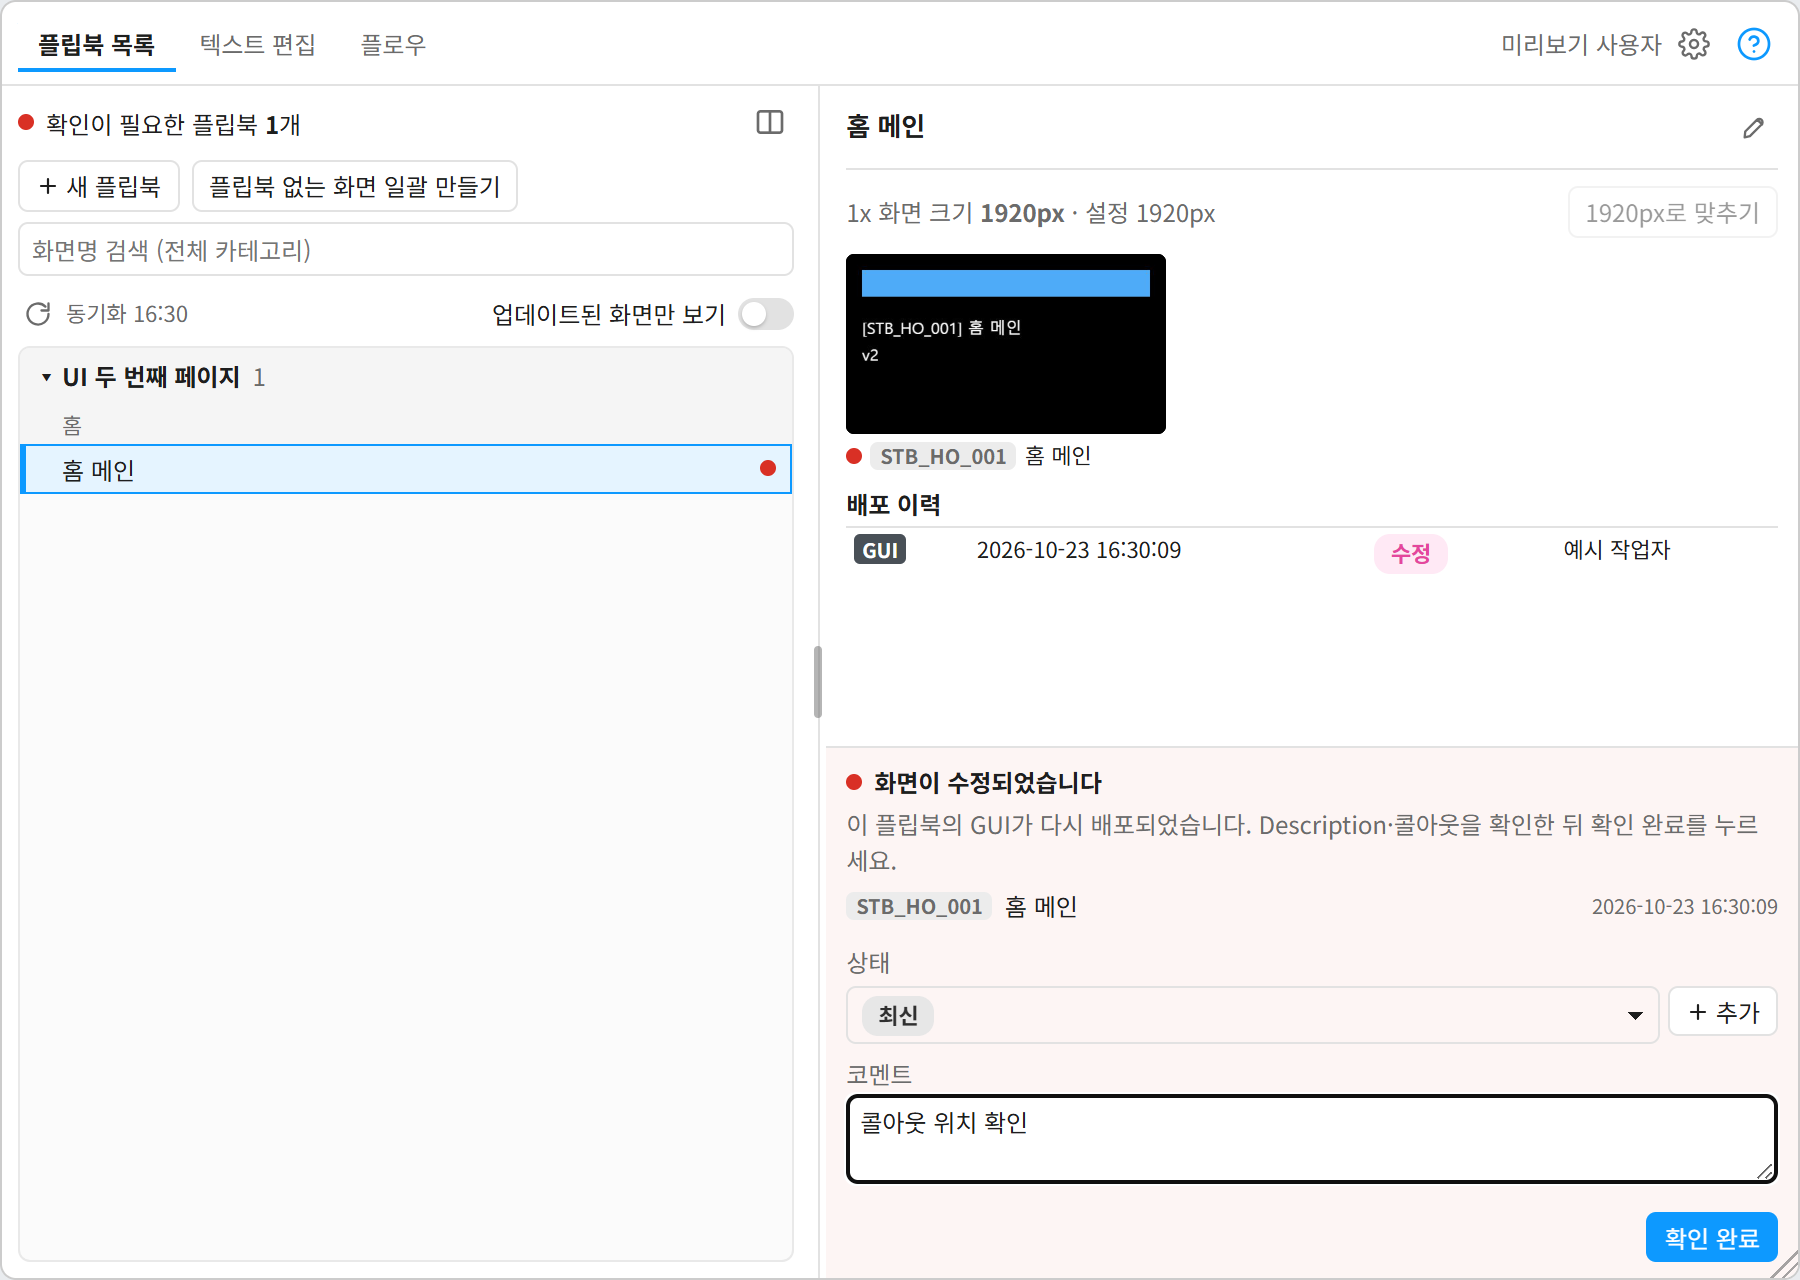
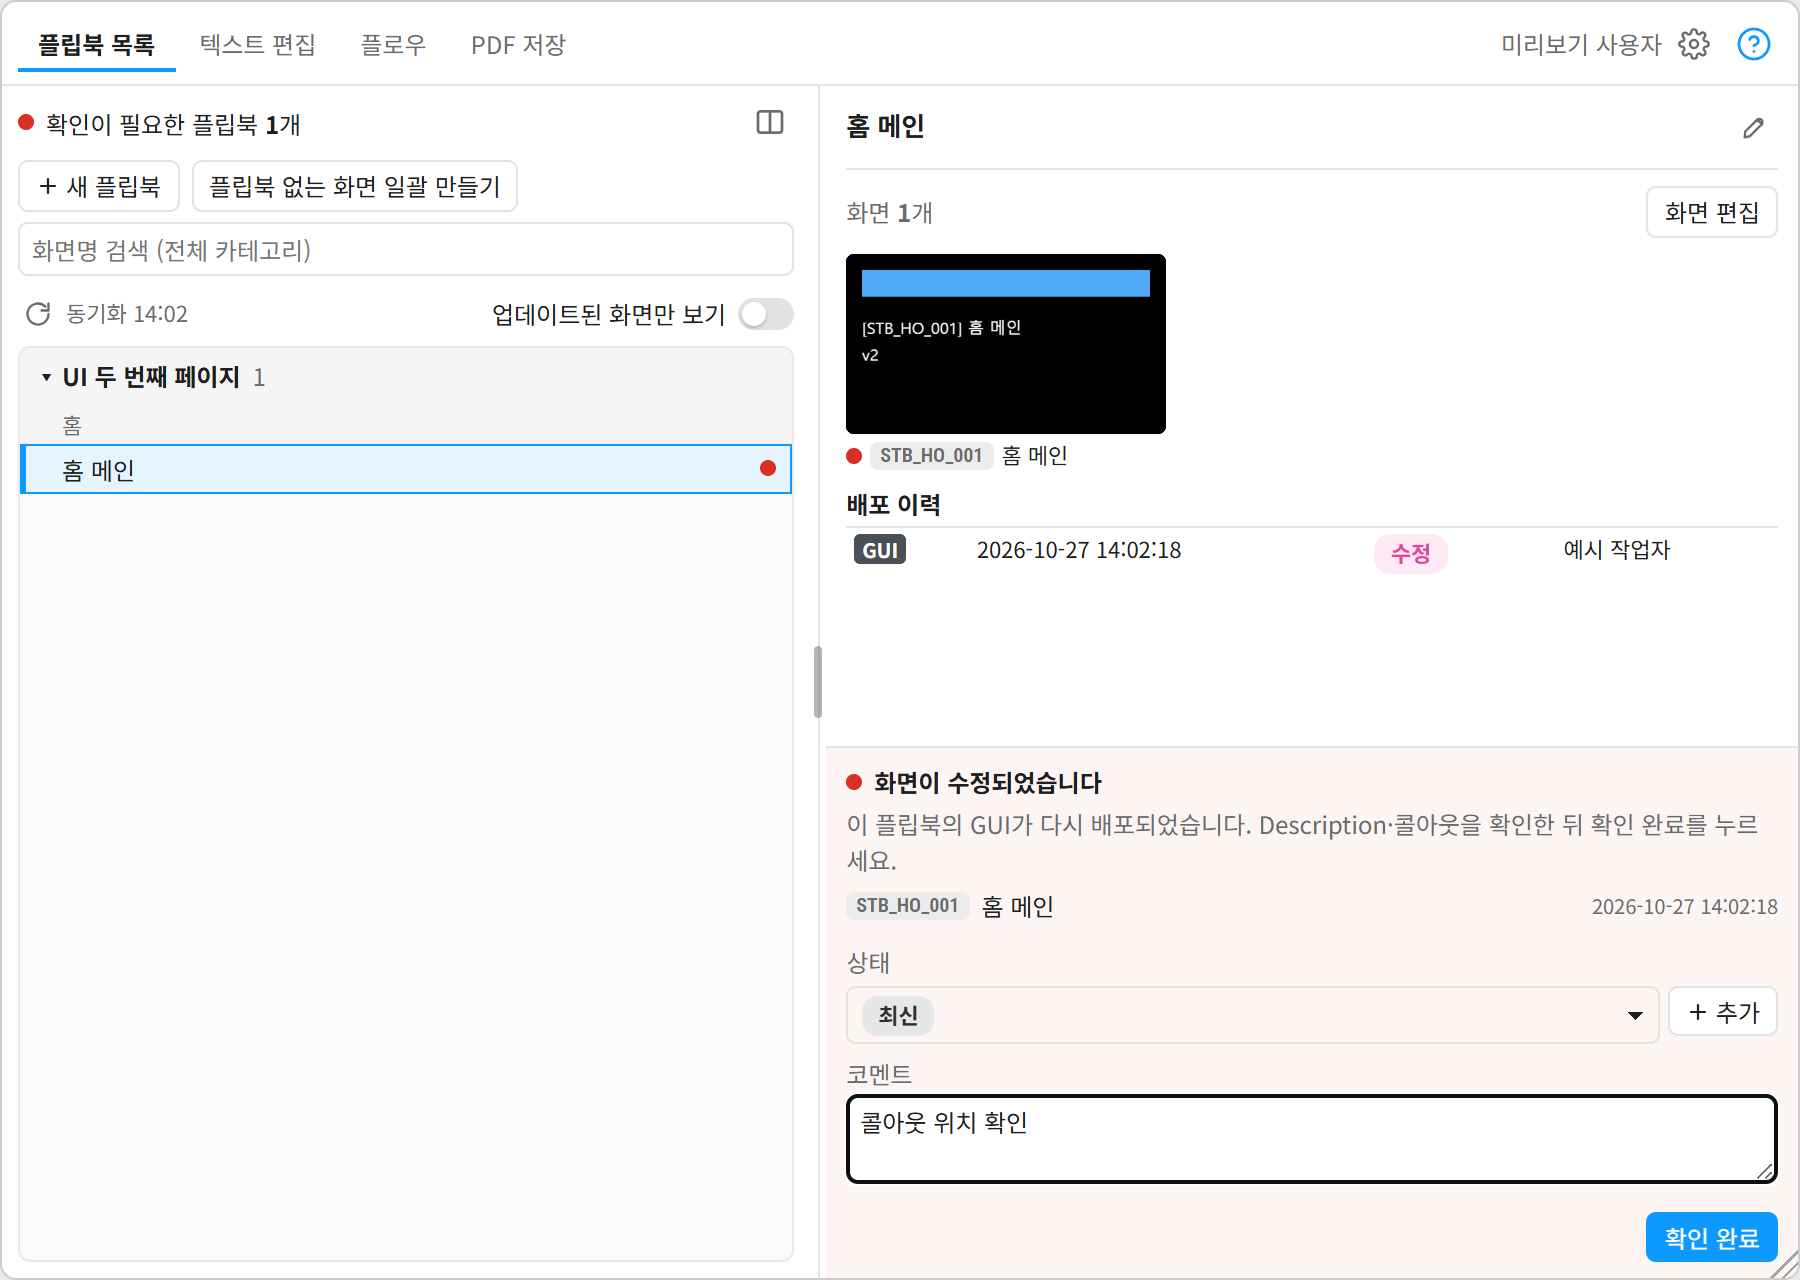
Show Screen IDs in Roboto Condensed in the plugin window
Screen ID tags took the panel font (Inter, else Noto Sans KR or the
system font), which made long IDs wide and looked different on each
computer. The plugin window can only use fonts installed on the viewer's
machine, and networkAccess is none, so a web font cannot be fetched.

build.mjs now inlines Roboto Condensed SemiBold (Latin subset from
Fontsource, SIL OFL 1.1, license in src/ui/fonts/OFL.txt) into ui.html
and preview.html as a data URL @font-face. .id-tag and .flow-card-id use
it through --id-font, falling back to the panel fonts for other
characters. Tags are about 16% narrower (STB_HO_001: 73px -> 62px).
IDs inside combined strings (detail heading, select options) and the
Screen ID input keep the panel font.

Guide screenshots are regenerated; they also pick up the PDF 저장 tab
that the previous set predated.

diff --git a/src/ui/styles.css b/src/ui/styles.css
@@ -9,6 +9,7 @@
   --selected: var(--figma-color-bg-selected, #e5f4ff);
   --danger: var(--figma-color-text-danger, #d93025);
   --ok: #2f9e44;
+  --id-font: "Roboto Condensed", Inter, "Noto Sans KR", system-ui, sans-serif;
 }
 * { box-sizing: border-box; }
 html, body { margin: 0; height: 100%; }
@@ -93,7 +94,7 @@ legend { color: var(--muted); padding: 0 4px; }
 .estimate-orange { color: #ad6800; }
 .estimate-gray { color: var(--muted); }
 /* 화면 ID: 작은 회색 태그 */
-.id-tag { display: inline-flex; align-items: center; flex: none; font-size: 10px; font-weight: 600; line-height: 1; padding: 2px 5px; border-radius: 4px; color: #6b6b6b; background: color-mix(in srgb, #888 16%, var(--bg)); white-space: nowrap; }
+.id-tag { display: inline-flex; align-items: center; flex: none; font-family: var(--id-font); font-size: 10px; font-weight: 600; line-height: 1; padding: 2px 5px; border-radius: 4px; color: #6b6b6b; background: color-mix(in srgb, #888 16%, var(--bg)); white-space: nowrap; }
 .screen-option { display: flex; align-items: center; gap: 6px; min-width: 0; }
 .screen-option .label { overflow: hidden; text-overflow: ellipsis; white-space: nowrap; }
 .tag-picker.disabled > summary { pointer-events: none; opacity: .55; }
@@ -553,7 +554,7 @@ button.danger:hover:not(:disabled) { background: var(--danger); color: var(--onb
 .flow-card:hover { outline-color: color-mix(in srgb, var(--brand) 70%, var(--border)); }
 .flow-card.selected { outline: 2px solid var(--brand); }
 .flow-card.moving { z-index: 3; cursor: grabbing; box-shadow: 0 4px 12px rgba(0,0,0,.25); }
-.flow-card-id { position: absolute; left: 3px; top: 3px; max-width: calc(100% - 6px); box-sizing: border-box; padding: 0 4px; border-radius: 3px; background: rgba(0,0,0,.6); color: #fff; font-size: 10px; font-weight: 600; line-height: 15px; overflow: hidden; text-overflow: ellipsis; white-space: nowrap; pointer-events: none; }
+.flow-card-id { position: absolute; left: 3px; top: 3px; max-width: calc(100% - 6px); box-sizing: border-box; padding: 0 4px; border-radius: 3px; background: rgba(0,0,0,.6); color: #fff; font-family: var(--id-font); font-size: 10px; font-weight: 600; line-height: 15px; overflow: hidden; text-overflow: ellipsis; white-space: nowrap; pointer-events: none; }
 .flow-ghost { z-index: 30; pointer-events: none; opacity: .8; box-shadow: 0 4px 12px rgba(0,0,0,.25); }
 .flow-card-remove { position: absolute; top: -7px; right: -7px; display: none; align-items: center; justify-content: center; width: 16px; height: 16px; padding: 0; border-radius: 50%; background: var(--bg); }
 .flow-card:hover .flow-card-remove { display: inline-flex; }

diff --git a/ARCHITECTURE.md b/ARCHITECTURE.md
@@ -17,7 +17,7 @@ flowchart LR
   H["src/ui/demo.ts<br/>가상 Host"] --> C
 ```
 
-`src/ui/index.ts`는 Figma UI iframe의 시작점이다. 메시지 형식과 `Map` 직렬화는 `src/core/wire.ts`에 둔다. 브라우저 미리보기는 같은 `Controller`와 UI를 실행하고 `Host`만 가짜 Figma 데이터(`src/ui/demo.ts`)로 교체한다. 튜토리얼(`src/ui/tutorial.ts`)도 플러그인 창 안에서 같은 가짜 환경에 두 번째 `Controller`·UI를 띄워 예시 화면을 만들고 실제 창 위에 겹친다. 예시 데이터는 본체 메시지(설정·스캔·배포·플립북 만들기)로 쌓으므로 저장 형식이 바뀌어도 따라가며, 실제 `Host`와 파일 기록에는 닿지 않는다. `build.mjs`는 Figma용 `dist/code.js`, 인라인 스크립트·스타일을 담은 `dist/ui.html`, 브라우저용 `dist/preview.html`을 만든다. `dist/`는 생성물이다.
+`src/ui/index.ts`는 Figma UI iframe의 시작점이다. 메시지 형식과 `Map` 직렬화는 `src/core/wire.ts`에 둔다. 브라우저 미리보기는 같은 `Controller`와 UI를 실행하고 `Host`만 가짜 Figma 데이터(`src/ui/demo.ts`)로 교체한다. 튜토리얼(`src/ui/tutorial.ts`)도 플러그인 창 안에서 같은 가짜 환경에 두 번째 `Controller`·UI를 띄워 예시 화면을 만들고 실제 창 위에 겹친다. 예시 데이터는 본체 메시지(설정·스캔·배포·플립북 만들기)로 쌓으므로 저장 형식이 바뀌어도 따라가며, 실제 `Host`와 파일 기록에는 닿지 않는다. `build.mjs`는 Figma용 `dist/code.js`, 인라인 스크립트·스타일과 Screen ID 글꼴(`src/ui/fonts/`, data URL)을 담은 `dist/ui.html`, 브라우저용 `dist/preview.html`을 만든다. `dist/`는 생성물이다.
 
 ## 코드 경계
 

diff --git a/README.md b/README.md
@@ -72,7 +72,7 @@ npm run check
 | `src/core/` | Figma와 무관한 판정·계획·기록 모델(저장 키, 지문 비교, 배포 계획, 플립북·이력). 사용자 문구는 `copy.ts` |
 | `src/figma/` | Figma API 어댑터(레이어 복사, 썸네일, 지문 판독, 플립북 반영, DATA 페이지) |
 | `src/host.ts` | Controller가 쓰는 환경 계약. 실제 Figma와 미리보기용 가짜 환경이 이 계약을 구현 |
-| `src/ui/` | 플러그인 창. `demo.ts`는 미리보기·튜토리얼용 가짜 Figma 환경, `tutorial.ts`는 튜토리얼 |
+| `src/ui/` | 플러그인 창. `demo.ts`는 미리보기·튜토리얼용 가짜 Figma 환경, `tutorial.ts`는 튜토리얼, `fonts/`는 Screen ID 표시 글꼴(Roboto Condensed, SIL OFL 1.1) |
 | `test/` | Node 테스트(`npm test`) |
 | `scripts/` | 배포(`release.mjs`), 안내 그림 캡처, 미리보기 조작, 성능 측정, 문구 시트 Apps Script(`CopySync.gs`) |
 | `release/` | 팀원용 사용 안내 원본(`guide.html`)과 그림 |
